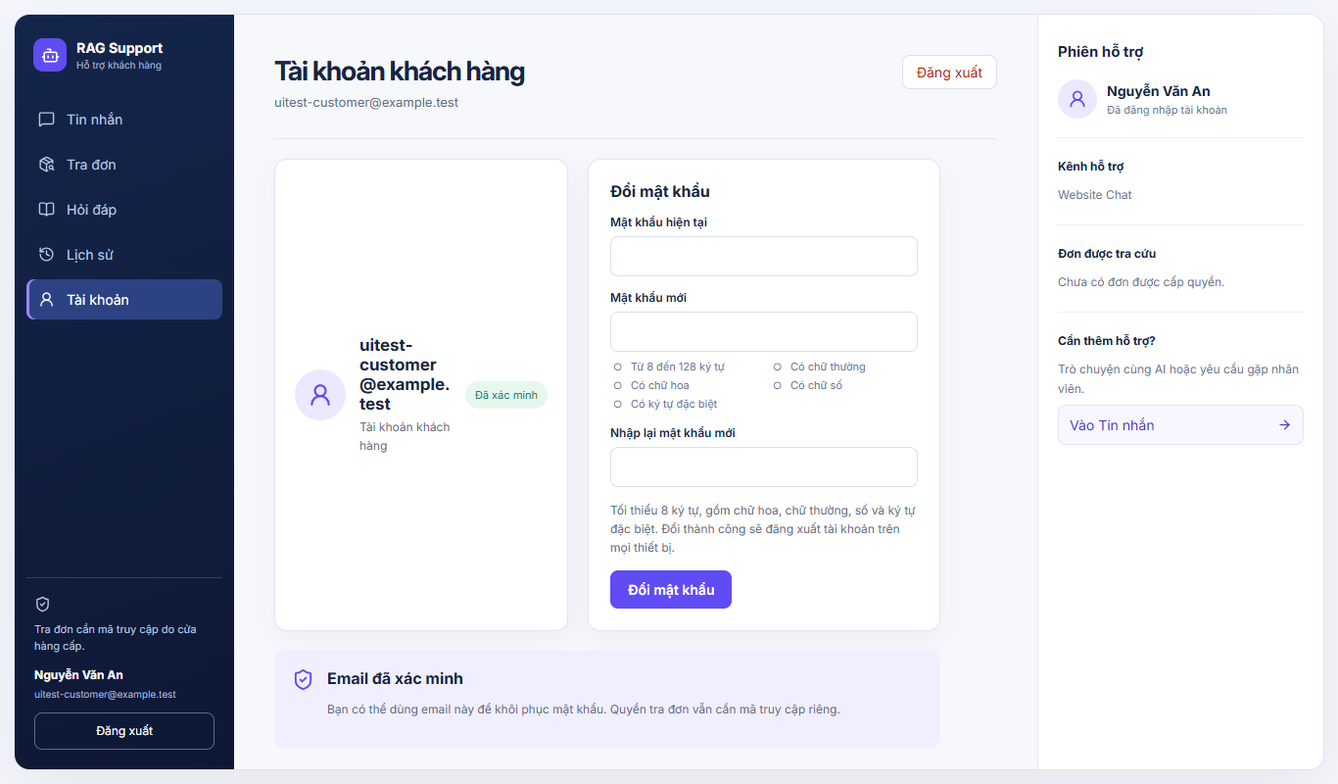
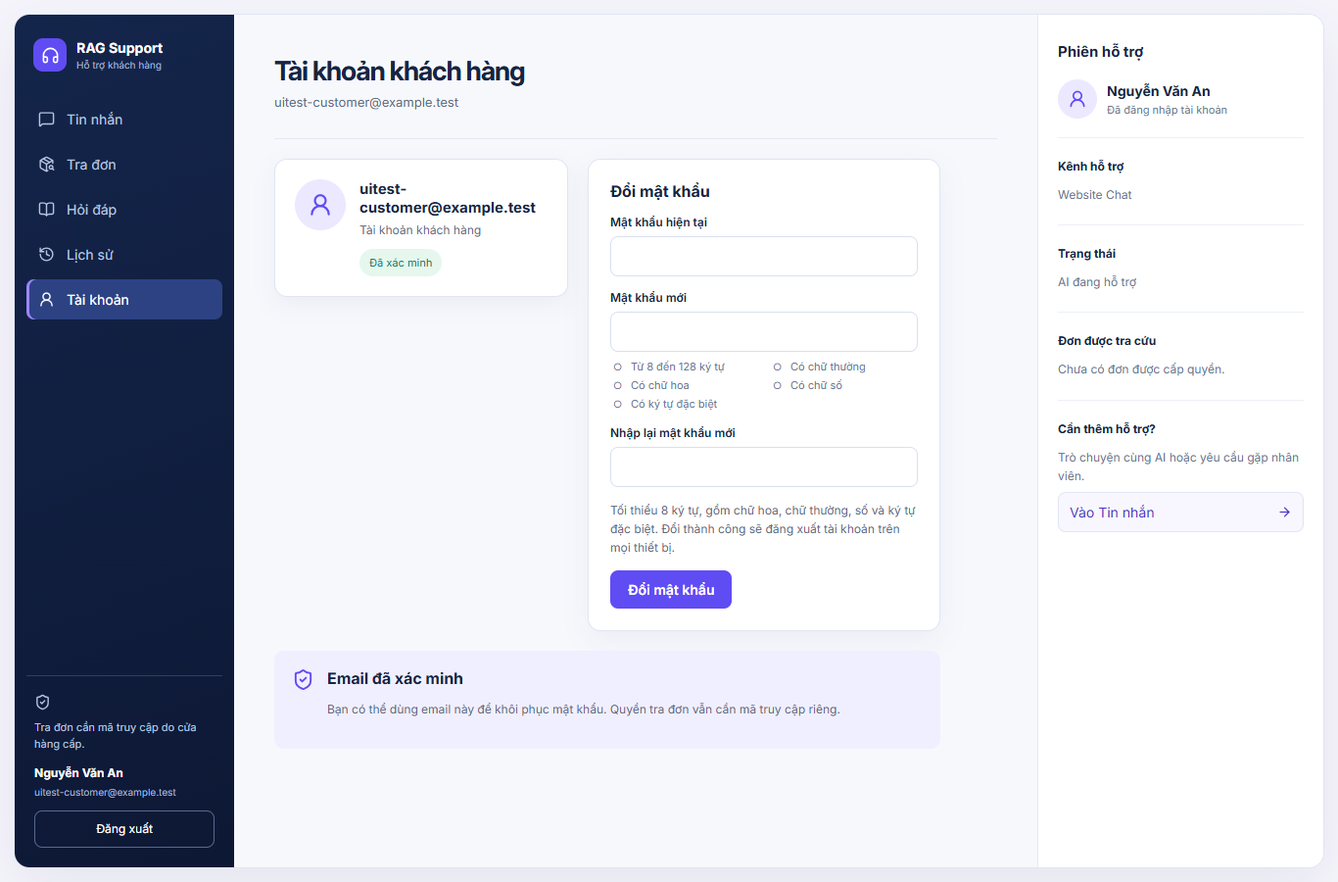
fix(ui): remaining usability items from the audit (K3–K7, K9, K10, K12)
- FAQ search is a real field; Enter carries the question into the chat composer.
- The customer side column shows the live conversation status and drops the
  link to the page already open; the order page explains that order access
  belongs to the current conversation.
- Account page: one logout on desktop, email no longer wraps to four lines.
- Staff: bordered message paging buttons, one search field style for customers
  and orders, a live rule checklist on the staff password form, and the phone
  menu's theme toggle no longer covers menu items.
- Knowledge base lists documents by their leading Markdown heading (new
  `title` field on /documents) with the file name as secondary text; Delete is
  styled as destructive.

diff --git a/frontend/src/Widget.jsx b/frontend/src/Widget.jsx
@@ -255,7 +255,8 @@ export default function Widget() {
     finally { setBusy(false); }
   }
   async function end() {
-    const prompt = session?.account ? 'Bắt đầu cuộc trò chuyện mới? Hội thoại hiện tại sẽ kết thúc; lịch sử vẫn lưu trong tài khoản.' : 'Kết thúc hội thoại? Bạn sẽ không xem lại được lịch sử này trong widget. Nhân viên vẫn giữ lịch sử để hỗ trợ.';
+    const hasOrderAccess = session?.order_access?.some(access => access.expires_at > Date.now() / 1000);
+    const prompt = session?.account ? 'Bắt đầu cuộc trò chuyện mới? Hội thoại hiện tại sẽ kết thúc; lịch sử vẫn lưu trong tài khoản.' + (hasOrderAccess ? ' Quyền tra đơn đã cấp sẽ hết hiệu lực.' : '') : 'Kết thúc hội thoại? Bạn sẽ không xem lại được lịch sử này trong widget. Nhân viên vẫn giữ lịch sử để hỗ trợ.';
     if (!window.confirm(prompt)) return;
     const version = ++sequence.current; setBusy(true); setError('');
     try {
@@ -398,12 +399,12 @@ export default function Widget() {
       {view === 'messages' ? chat : view === 'history' && session?.account ? <CustomerHistory key={session.account.email} request={request} currentId={session.conversation_id} onExpired={() => clearIdentity('Phiên đăng nhập đã hết hạn.')} /> : view === 'account' && session?.account ? <CustomerProfile account={session.account} request={request} onExpired={() => clearIdentity('Phiên đăng nhập đã hết hạn.')} onPasswordChanged={() => { clearIdentity(''); setToast('Đổi mật khẩu thành công. Vui lòng đăng nhập lại bằng mật khẩu mới.'); }} onLogout={logout} logoutDisabled={busy || handoffBusy || historyLoading} /> : view === 'orders' ? <section className="portalPage" aria-label="Tra cứu đơn hàng"><div className="portalPageHead"><span className="portalPageIcon"><PackageSearch size={22} /></span><div><h1>Tra cứu đơn hàng</h1><p>Xem trạng thái và mã vận đơn sau khi xác nhận quyền truy cập.</p></div></div>
         {!session ? <div className="portalEmpty"><p>Bắt đầu phiên trò chuyện để tra cứu đơn.</p><button onClick={() => setView('messages')}>Bắt đầu trò chuyện <ArrowRight size={16} /></button></div> : <><div className="portalOrderGrid"><form className="portalOrderForm" onSubmit={event => { event.preventDefault(); inspectOrder(orderId, new FormData(event.currentTarget).get('code')); }}><h2>Nhập thông tin tra cứu</h2><label>Mã đơn<input value={orderId} onChange={event => { setOrderId(event.target.value); setOrderResult(null); }} placeholder="Ví dụ: DH12345" required minLength={6} maxLength={64} autoComplete="off" /></label>
           {!activeAccess.some(access => access.order_id === orderId.trim().toUpperCase()) && <label>Mã truy cập<input name="code" type="password" required minLength={43} maxLength={43} autoComplete="off" spellCheck={false} placeholder="Mã do cửa hàng cấp" /></label>}
-          <p>Mã truy cập chỉ dùng để xác nhận quyền tra đơn. Không gửi mã trong tin nhắn.</p><button disabled={busy || orderLoading}>{orderLoading ? 'Đang tra cứu...' : 'Tra cứu đơn hàng'}</button></form><div className="portalOrderHelp"><h2>Lấy mã truy cập ở đâu?</h2><ol><li>Liên hệ cửa hàng qua kênh đã xác minh (điện thoại hoặc email đặt hàng).</li><li>Nhân viên kiểm tra chủ đơn rồi cấp mã riêng cho từng đơn.</li><li>Không gửi mã truy cập trong tin nhắn trò chuyện.</li></ol></div></div>
+          <p>Mã truy cập chỉ dùng để xác nhận quyền tra đơn. Không gửi mã trong tin nhắn. Quyền tra đơn gắn với cuộc trò chuyện hiện tại và hết hạn sau 15 phút; khi bấm Chat mới bạn cần mã mới.</p><button disabled={busy || orderLoading}>{orderLoading ? 'Đang tra cứu...' : 'Tra cứu đơn hàng'}</button></form><div className="portalOrderHelp"><h2>Lấy mã truy cập ở đâu?</h2><ol><li>Liên hệ cửa hàng qua kênh đã xác minh (điện thoại hoặc email đặt hàng).</li><li>Nhân viên kiểm tra chủ đơn rồi cấp mã riêng cho từng đơn.</li><li>Không gửi mã truy cập trong tin nhắn trò chuyện.</li></ol></div></div>
           {orderError && <p className="widgetError" role="alert">{orderError}</p>}
           {orderResult && activeAccess.some(access => access.order_id === orderResult.order_id) && <article className="portalOrderResult" role="status"><div><small>ĐƠN HÀNG</small><h2>{orderResult.order_id}</h2></div><span>{orderStatuses[orderResult.status] || orderResult.status}</span><dl><dt>Trạng thái</dt><dd>{orderStatuses[orderResult.status] || orderResult.status}</dd><dt>Mã vận đơn</dt><dd>{orderResult.tracking_code || 'Chưa có mã vận đơn'}</dd></dl></article>}
           {activeAccess.length > 0 && <div className="portalAccess"><h2>Đơn đã cấp quyền</h2>{activeAccess.map(access => <button key={access.order_id} onClick={() => { setOrderId(access.order_id); inspectOrder(access.order_id, ''); }}>{access.order_id}<ArrowRight size={16} /></button>)}</div>}</>}
-      </section> : <section className="portalPage" aria-label="Hỏi đáp chính sách"><div className="portalPageHead"><span className="portalPageIcon"><BookOpen size={22} /></span><div><h1>Hỏi đáp chính sách</h1><p>Đặt câu hỏi cho trợ lý AI. Câu trả lời sẽ kèm trích nguồn khi tìm được tài liệu.</p></div></div><button type="button" className="portalSearchFake" onClick={() => setView('messages')}><SearchIcon aria-hidden="true" /><span>Đặt câu hỏi về chính sách cho trợ lý...</span></button><div className="portalPolicyGrid">{policyGroups.map(([title, description, question]) => <button type="button" key={title} onClick={() => askSuggestion(question)}><strong>{title}</strong><small>{description}</small></button>)}</div><div className="portalQuestions"><h2>Câu hỏi thường gặp</h2>{suggestions.map(question => <button key={question} onClick={() => askSuggestion(question)}>{question}<ArrowRight size={17} /></button>)}</div><div className="portalEmpty"><p>Không tìm thấy chính sách bạn cần?</p><button onClick={() => setView('messages')}>Mở trò chuyện <ArrowRight size={16} /></button></div></section>}
+      </section> : <section className="portalPage" aria-label="Hỏi đáp chính sách"><div className="portalPageHead"><span className="portalPageIcon"><BookOpen size={22} /></span><div><h1>Hỏi đáp chính sách</h1><p>Đặt câu hỏi cho trợ lý AI. Câu trả lời sẽ kèm trích nguồn khi tìm được tài liệu.</p></div></div><form className="portalSearch" role="search" onSubmit={event => { event.preventDefault(); const question = new FormData(event.currentTarget).get('question').trim(); if (question) askSuggestion(question); }}><SearchIcon aria-hidden="true" /><input name="question" aria-label="Câu hỏi về chính sách" maxLength={400} placeholder="Nhập câu hỏi về chính sách rồi nhấn Enter..." /><button type="submit">Hỏi trợ lý</button></form><div className="portalPolicyGrid">{policyGroups.map(([title, description, question]) => <button type="button" key={title} onClick={() => askSuggestion(question)}><strong>{title}</strong><small>{description}</small></button>)}</div><div className="portalQuestions"><h2>Câu hỏi thường gặp</h2>{suggestions.map(question => <button key={question} onClick={() => askSuggestion(question)}>{question}<ArrowRight size={17} /></button>)}</div><div className="portalEmpty"><p>Không tìm thấy chính sách bạn cần?</p><button onClick={() => setView('messages')}>Mở trò chuyện <ArrowRight size={16} /></button></div></section>}
     </div>
-    <div className="portalContext"><h2>Phiên hỗ trợ</h2><div className="portalPerson"><span><UserRound size={20} /></span><div><b>{session?.display_name || 'Khách hàng'}</b><small>{session?.account ? 'Đã đăng nhập tài khoản' : session ? 'Khách vãng lai · ' + statuses[session.status] : 'Chưa bắt đầu phiên'}</small></div></div><div className="portalContextBlock"><h3>Kênh hỗ trợ</h3><p>Website Chat</p></div><div className="portalContextBlock"><h3>Đơn được tra cứu</h3>{activeAccess.length ? activeAccess.map(access => <button key={access.order_id} onClick={() => { setOrderId(access.order_id); setView('orders'); inspectOrder(access.order_id, ''); }}>{access.order_id}<ArrowRight size={15} /></button>) : <p>Chưa có đơn được cấp quyền.</p>}</div><div className="portalContextBlock"><h3>Cần thêm hỗ trợ?</h3><p>Trò chuyện cùng AI hoặc yêu cầu gặp nhân viên.</p><button onClick={() => setView('messages')}>Vào Tin nhắn <ArrowRight size={15} /></button></div></div>
+    <div className="portalContext"><h2>Phiên hỗ trợ</h2><div className="portalPerson"><span><UserRound size={20} /></span><div><b>{session?.display_name || 'Khách hàng'}</b><small>{session?.account ? 'Đã đăng nhập tài khoản' : session ? 'Khách vãng lai · ' + statuses[session.status] : 'Chưa bắt đầu phiên'}</small></div></div><div className="portalContextBlock"><h3>Kênh hỗ trợ</h3><p>Website Chat</p></div>{session && <div className="portalContextBlock"><h3>Trạng thái</h3><p>{statuses[session.status] || session.status}</p></div>}<div className="portalContextBlock"><h3>Đơn được tra cứu</h3>{activeAccess.length ? activeAccess.map(access => <button key={access.order_id} onClick={() => { setOrderId(access.order_id); setView('orders'); inspectOrder(access.order_id, ''); }}>{access.order_id}<ArrowRight size={15} /></button>) : <p>Chưa có đơn được cấp quyền.</p>}</div>{view !== 'messages' && <div className="portalContextBlock"><h3>Cần thêm hỗ trợ?</h3><p>Trò chuyện cùng AI hoặc yêu cầu gặp nhân viên.</p><button onClick={() => setView('messages')}>Vào Tin nhắn <ArrowRight size={15} /></button></div>}</div>
   </div>;
 }

diff --git a/frontend/src/KnowledgeBase.jsx b/frontend/src/KnowledgeBase.jsx
@@ -53,7 +53,7 @@ export default function KnowledgeBase({ user, request, onExpired }) {
   const answerRequest = useRef(null);
   const previewRef = useRef(null);
   const tabs = [['documents', 'Tài liệu'], ...(user.role === 'admin' ? [['upload', 'Tải tài liệu']] : []), ['ask', 'Thử hỏi AI']];
-  const visibleDocuments = documents.filter(document => document.filename.toLocaleLowerCase('vi').includes(search.trim().toLocaleLowerCase('vi')) && (!status || document.status === status));
+  const visibleDocuments = documents.filter(document => `${document.title || ''} ${document.filename}`.toLocaleLowerCase('vi').includes(search.trim().toLocaleLowerCase('vi')) && (!status || document.status === status));
   const pageCount = Math.max(1, Math.ceil(visibleDocuments.length / PAGE_SIZE));
   const currentPage = Math.min(page, pageCount - 1);
   const pageDocuments = visibleDocuments.slice(currentPage * PAGE_SIZE, (currentPage + 1) * PAGE_SIZE);
@@ -143,11 +143,11 @@ export default function KnowledgeBase({ user, request, onExpired }) {
     {error && <p role="alert" className="kbError">{error}</p>}
     <section id="kb-panel-documents" role="tabpanel" aria-labelledby="kb-tab-documents" hidden={section !== 'documents'}>
     <h2 className="documentHeading" id="tai-lieu">Tài liệu <span>{visibleDocuments.length} / {documents.length} tài liệu</span></h2>
-    <div className="documentFilters"><label>Tìm tài liệu<input type="search" value={search} onChange={event => setSearch(event.target.value)} placeholder="Tên tài liệu..." /></label><label>Trạng thái<select value={status} onChange={event => setStatus(event.target.value)}><option value="">Tất cả trạng thái</option>{Object.entries(labels).map(([value, label]) => <option key={value} value={value}>{label}</option>)}</select></label>{(search || status) && <button onClick={() => { setSearch(''); setStatus(''); }}>Xóa bộ lọc</button>}</div>
+    <div className="documentFilters"><label>Tìm tài liệu<input type="search" value={search} onChange={event => setSearch(event.target.value)} placeholder="Tiêu đề hoặc tên file..." /></label><label>Trạng thái<select value={status} onChange={event => setStatus(event.target.value)}><option value="">Tất cả trạng thái</option>{Object.entries(labels).map(([value, label]) => <option key={value} value={value}>{label}</option>)}</select></label>{(search || status) && <button onClick={() => { setSearch(''); setStatus(''); }}>Xóa bộ lọc</button>}</div>
     {loading ? <p role="status">Đang tải tài liệu...</p> : !documents.length ? <p>Chưa có tài liệu. {user.role === 'admin' ? <button onClick={() => setSection('upload')}>Tải tài liệu đầu tiên</button> : 'Quản trị viên tải tài liệu để bắt đầu hỏi đáp.'}</p> : !visibleDocuments.length ? <p role="status">Không có tài liệu phù hợp. Thử đổi tên hoặc bỏ bộ lọc trạng thái.</p> : <><div className="documentList">{pageDocuments.map(document => <article className="documentCard" key={document.document_id}>
-      <div><h2>{document.filename}</h2><p>{labels[document.status] || document.status} · {document.chunks} đoạn</p>{document.error_message && <p className="kbError">{document.error_message}</p>}</div>
+      <div><h2>{document.title || document.filename}</h2><p>{document.title ? `${document.filename} · ` : ''}{labels[document.status] || document.status} · {document.chunks} đoạn</p>{document.error_message && <p className="kbError">{document.error_message}</p>}</div>
       <div className="documentActions"><button onClick={() => show(document)} disabled={Boolean(busy)} aria-expanded={preview?.id === document.document_id}>{preview?.id === document.document_id ? 'Ẩn nội dung' : 'Xem nội dung'}</button>
-      {user.role === 'admin' && <><button disabled={Boolean(busy) || document.status === 'deleting'} onClick={() => mutate(`/documents/${document.document_id}/reindex`, { method: 'POST' }, document.document_id)}>{busy === document.document_id ? 'Đang xử lý...' : 'Lập chỉ mục lại'}</button><button disabled={Boolean(busy)} onClick={() => setRemoveId(document.document_id)}>Xóa</button></>}</div>
+      {user.role === 'admin' && <><button disabled={Boolean(busy) || document.status === 'deleting'} onClick={() => mutate(`/documents/${document.document_id}/reindex`, { method: 'POST' }, document.document_id)}>{busy === document.document_id ? 'Đang xử lý...' : 'Lập chỉ mục lại'}</button><button disabled={Boolean(busy)} onClick={() => setRemoveId(document.document_id)} className="danger">Xóa</button></>}</div>
       {removeId === document.document_id && <div className="deleteConfirm" role="alert"><p>Xóa tài liệu, các đoạn và vector? Lịch sử hội thoại vẫn giữ trích dẫn cũ.</p><button disabled={Boolean(busy)} onClick={() => mutate(`/documents/${document.document_id}`, { method: 'DELETE' }, document.document_id)}>Xác nhận xóa</button><button disabled={Boolean(busy)} onClick={() => setRemoveId(null)}>Hủy</button></div>}
       {preview?.id === document.document_id && <section ref={previewRef} className="sourcePreview inlinePreview" aria-label={`Nội dung ${document.filename}`}>{preview.loading ? <p role="status">Đang tải...</p> : preview.error ? <p role="alert">{preview.error}</p> : preview.chunks.map(chunk => <article key={chunk.chunk_id}><h3>{chunk.location || `Đoạn ${chunk.index + 1}`}</h3><p><RichText text={chunk.content} /></p></article>)}</section>}
     </article>)}</div>

diff --git a/frontend/src/portal.css b/frontend/src/portal.css
@@ -127,8 +127,12 @@
 .portalOrderHelp { align-self: start; margin-top: 20px; padding: 22px; border: 1px solid #e0e5f1; border-radius: 13px; background: #fff; box-shadow: 0 10px 28px rgba(31, 42, 79, .05); }
 .portalOrderHelp h2 { margin: 0 0 14px; font-size: 16px; }
 .portalOrderHelp ol { margin: 0; padding-left: 20px; color: #5c6984; font-size: 12px; line-height: 1.8; }
-.portalSearchFake { display: flex; align-items: center; gap: 9px; width: 100%; max-width: 900px; cursor: pointer; text-align: left; font: inherit; margin-top: 20px; padding: 12px 14px; border: 1px solid #d8e0f0; border-radius: 9px; background: #fff; color: #6a758a; font-size: 13px; }
-.portalSearchFake:hover { border-color: #bcb0ff; }
+.portalSearch { display: flex; align-items: center; gap: 9px; width: 100%; max-width: 900px; box-sizing: border-box; margin-top: 20px; padding: 5px 5px 5px 14px; border: 1px solid #d8e0f0; border-radius: 9px; background: #fff; color: #6a758a; }
+.portalSearch input { flex: 1; min-width: 0; border: 0; outline: 0; background: transparent; font: inherit; font-size: 14px; color: #263655; padding: 8px 0; }
+.portalSearch input::placeholder { color: #6a758a; }
+.portalSearch button { flex: none; border: 0; border-radius: 7px; padding: 9px 14px; background: #604cf3; color: #fff; font: inherit; font-size: 13px; font-weight: 600; cursor: pointer; }
+.portalSearch:focus-within { border-color: #8f80f4; box-shadow: 0 0 0 3px #6753ee1a; }
+.portalSearch:hover { border-color: #bcb0ff; }
 .portalPolicyGrid { display: grid; grid-template-columns: repeat(3, minmax(0, 1fr)); gap: 10px; max-width: 900px; margin-top: 12px; }
 .portalPolicyGrid button { min-height: 78px; padding: 14px; border: 1px solid #e0e5f1; border-radius: 12px; background: #fff; color: #263655; text-align: left; box-shadow: 0 6px 18px rgba(31, 42, 79, .04); }
 .portalPolicyGrid button:hover { border-color: #bcb0ff; background: #f8f7ff; }
@@ -157,9 +161,9 @@
 [data-theme=dark] .historyFilters label { color:#d4deed; }
 [data-theme=dark] .historyFilters :is(input,select) { background:#202c3d; border-color:#475569; color:#e2e8f0; }
 /* Dark theme for portal surfaces that were left white: order help, FAQ search and cards, history, profile. */
-[data-theme=dark] :is(.portalOrderHelp,.portalSearchFake,.portalPolicyGrid button,.accountHistoryDetail,.accountHistoryList button,.profileCard) { background:#202c3d; color:#e2e8f0; border-color:#475569; box-shadow:none; }
+[data-theme=dark] :is(.portalOrderHelp,.portalSearch,.portalPolicyGrid button,.accountHistoryDetail,.accountHistoryList button,.profileCard) { background:#202c3d; color:#e2e8f0; border-color:#475569; box-shadow:none; }
 [data-theme=dark] :is(.portalOrderHelp h2,.accountHistoryDetail h2,.profileCard h2,.profilePassword h2,.portalPolicyGrid strong,.accountHistoryList b) { color:#f1f5f9; }
-[data-theme=dark] :is(.portalOrderHelp li,.portalSearchFake span,.portalPolicyGrid small,.accountHistoryList span,.accountHistoryList small,.accountHistoryDetail>p,.profileCard p) { color:#b7c9e2; }
+[data-theme=dark] :is(.portalOrderHelp li,.portalSearch input::placeholder,.portalPolicyGrid small,.accountHistoryList span,.accountHistoryList small,.accountHistoryDetail>p,.profileCard p) { color:#b7c9e2; }
 [data-theme=dark] :is(.portalPolicyGrid button:hover,.accountHistoryList button:hover) { background:#27354a; border-color:#8f80f4; }
 [data-theme=dark] .accountHistoryList button[aria-pressed=true] { background:#302b4a; border-color:#8f80f4; }
 [data-theme=dark] .accountPager button { background:#202c3d; color:#d4caff; border-color:#475569; }
@@ -169,3 +173,11 @@
 [data-theme=dark] .profileStatus.verified { background:#164c3c; color:#8df0c1; }
 [data-theme=dark] .profileLogout { background:#202c3d; color:#ffb4a8; border-color:#6b4a4a; }
 [data-theme=dark] .profileLogout:hover { background:#3a2529; border-color:#a8605a; }
+[data-theme=dark] .portalSearch input { color:#e2e8f0; }
+/* K6: on desktop the sidebar already has Đăng xuất; the page button is for phones, where the sidebar is hidden. */
+@media(min-width:701px) { .customerProfile .profileLogout { display:none; } }
+/* K6: the email gets the full row; the verification badge sits under it instead of squeezing it into four lines. */
+.profileCard { flex-wrap:wrap; align-items:flex-start; align-content:flex-start; align-self:start; row-gap:10px; }
+.profileCard > div:nth-child(2) { flex:1 1 calc(100% - 70px); min-width:0; }
+.profileCard h2 { font-size:15px; }
+.profileCard .profileStatus { margin-left:66px; }

diff --git a/frontend/src/Workspace.jsx b/frontend/src/Workspace.jsx
@@ -1,6 +1,7 @@
 import React, { useEffect, useRef, useState } from 'react';
 import { ArrowUpRight, Search, Plus, RefreshCw, X, MessagesSquare, UsersRound, ShoppingBag, BookOpen, TicketCheck, MessageCircle } from 'lucide-react';
 import './workspace.css';
+import PasswordRules from './PasswordRules';
 import { channelNames, conversationStatuses, formatDate, formatDateTime, formatDay, formatMinutes, shortId } from './shared';
 
 const orderLabels = { processing: 'Đang xử lý', paid: 'Đã thanh toán', shipping: 'Đang giao', shipped: 'Đã gửi hàng', delivered: 'Đã giao', cancelled: 'Đã hủy' };
@@ -165,6 +166,9 @@ function Records({ kind, request, onExpired, user, openInbox, openOrders, route,
 
 function PasswordForm({ request, onExpired }) {
   const [busy, setBusy] = useState(false), [error, setError] = useState('');
+  const [current, setCurrent] = useState(''), [next, setNext] = useState('');
+  // Same checks as POST /workspace/password.
+  const rules = [['Từ 12 đến 128 ký tự', value => value.length >= 12 && value.length <= 128], ['Khác mật khẩu hiện tại', value => value.length > 0 && value !== current]];
   async function submit(event) {
     event.preventDefault();
     const { current_password, new_password, confirm } = fieldsOf(event);
@@ -174,7 +178,7 @@ function PasswordForm({ request, onExpired }) {
     catch (e) { setError(e.message); if (e.status === 401) onExpired(); }
     finally { setBusy(false); }
   }
-  return <form className="recordForm" onSubmit={submit}><fieldset disabled={busy}><label>Mật khẩu hiện tại<input type="password" name="current_password" autoComplete="current-password" required maxLength={128} /></label><label>Mật khẩu mới<input type="password" name="new_password" autoComplete="new-password" required minLength={12} maxLength={128} /></label><label>Nhập lại mật khẩu mới<input type="password" name="confirm" autoComplete="new-password" required minLength={12} maxLength={128} /></label><small>12–128 ký tự. Đổi thành công sẽ đăng xuất mọi phiên của tài khoản này.</small>{error && <p className="workspaceError" role="alert">{error}</p>}<button className="primary">{busy ? 'Đang đổi...' : 'Đổi mật khẩu'}</button></fieldset></form>;
+  return <form className="recordForm" onSubmit={submit}><fieldset disabled={busy}><label>Mật khẩu hiện tại<input type="password" name="current_password" autoComplete="current-password" required maxLength={128} onChange={event => setCurrent(event.target.value)} /></label><label>Mật khẩu mới<input type="password" name="new_password" autoComplete="new-password" required minLength={12} maxLength={128} onChange={event => setNext(event.target.value)} /></label><PasswordRules value={next} rules={rules} /><label>Nhập lại mật khẩu mới<input type="password" name="confirm" autoComplete="new-password" required minLength={12} maxLength={128} /></label><small>Đổi thành công sẽ đăng xuất mọi phiên của tài khoản này.</small>{error && <p className="workspaceError" role="alert">{error}</p>}<button className="primary">{busy ? 'Đang đổi...' : 'Đổi mật khẩu'}</button></fieldset></form>;
 }
 
 function StaffAccounts({ request, onExpired }) {

diff --git a/frontend/src/admin-theme.css b/frontend/src/admin-theme.css
@@ -403,3 +403,20 @@ body:has(.shell[data-theme=dark]){background:#111827}
 .shell[data-theme=dark] :is(.filters label,.slaFilter,.mobileNav button){color:#a3b1c6}
 /* Audit group 3 (mobile): fade the right edge of the scrolling staff menu so cut-off items read as "more this way". */
 @media(max-width:760px){.shell .mobileNav{padding-right:36px;-webkit-mask-image:linear-gradient(90deg,#000 calc(100% - 36px),transparent);mask-image:linear-gradient(90deg,#000 calc(100% - 36px),transparent)}}
+/* K7: message paging looks like the other buttons instead of 10px gray text. */
+.shell .messagePagination span{font-size:11px}
+.shell .messagePagination button{padding:5px 10px;border:1px solid var(--line);border-radius:6px;background:#fff;color:#475569;font-size:11px;cursor:pointer}
+.shell .messagePagination button:disabled{opacity:.45;cursor:default}
+.shell[data-theme=dark] .messagePagination button{background:#202c3d;color:#cecaed;border-color:#3c4a60}
+/* K9: customer/order search is one bordered field like the inbox and knowledge base searches. */
+.shell .recordFilters .search{align-items:center;gap:8px;width:min(100%,420px);padding:0 12px;border:1px solid var(--line);border-radius:8px;background:#fff;color:#606f85}
+.shell .recordFilters .search input{flex:1;min-width:0;min-height:40px;padding:0;border:0;background:transparent;font-size:13px}
+.shell .recordFilters .search:focus-within{border-color:#8f80f4;box-shadow:0 0 0 3px #604cf31a}
+.shell[data-theme=dark] .recordFilters .search{background:#111b2b;border-color:#3c4a60}
+/* K12: destructive action. */
+.knowledge .documentActions button.danger{color:#b42318;border-color:#f1b0a9}
+.knowledge .documentActions button.danger:hover:not(:disabled){background:#fff5f4}
+.shell[data-theme=dark] .knowledge .documentActions button.danger{color:#ffb4a8;border-color:#865453}
+
+/* The theme toggle scrolls with the phone menu instead of sticking over the items next to it. */
+.shell .mobileNav .themeToggle{position:static}

diff --git a/frontend/src/PasswordRules.jsx b/frontend/src/PasswordRules.jsx
@@ -1,7 +1,7 @@
 import React from 'react';
 
 // Same rules as the backend (app/api/customer_auth.py new_password_text) and the form pattern.
-const RULES = [
+export const CUSTOMER_RULES = [
   ['Từ 8 đến 128 ký tự', value => value.length >= 8 && value.length <= 128],
   ['Có chữ thường', value => /[a-z]/.test(value)],
   ['Có chữ hoa', value => /[A-Z]/.test(value)],
@@ -9,8 +9,8 @@ const RULES = [
   ['Có ký tự đặc biệt', value => /[^A-Za-z0-9\s]/.test(value)],
 ];
 
-export default function PasswordRules({ value = '' }) {
-  return <ul className="passwordRules" aria-label="Điều kiện mật khẩu">{RULES.map(([label, test]) => {
+export default function PasswordRules({ value = '', rules = CUSTOMER_RULES }) {
+  return <ul className="passwordRules" aria-label="Điều kiện mật khẩu">{rules.map(([label, test]) => {
     const met = test(value);
     return <li key={label} className={met ? 'met' : ''}><span aria-hidden="true">{met ? '✓' : '○'}</span>{label}<span className="srOnly">{met ? ' – đã đạt' : ' – chưa đạt'}</span></li>;
   })}</ul>;

diff --git a/app/tests/test_rag.py b/app/tests/test_rag.py
@@ -98,6 +98,12 @@ class RagTests(unittest.TestCase):
         self.assertEqual(self.client.get(f'/api/v1/documents/{document_id}/chunks').status_code, 404)
         self.assertEqual(self.store._client().count(self.store.collection()).count, 0)
 
+    def test_document_list_uses_leading_markdown_heading_as_title(self):
+        self.upload('# Chính sách giao hàng (bản thử)\nGiao trong 2 ngày.'.encode(), 'giao-hang.md')
+        self.upload(b'Returns accepted within 7 days.', 'policy.txt')
+        titles = {d['filename']: d['title'] for d in self.client.get('/api/v1/documents').json()['documents']}
+        self.assertEqual(titles, {'giao-hang.md': 'Chính sách giao hàng (bản thử)', 'policy.txt': None})
+
     def test_failed_embedding_can_retry_and_non_admin_cannot_mutate(self):
         with patch('app.services.document_service.embed', side_effect=ProviderError('Ollama offline')):
             result = self.client.post('/api/v1/documents/upload', files={'file': ('policy.txt', b'Policy text for recovery.')})

diff --git a/app/services/document_service.py b/app/services/document_service.py
@@ -67,8 +67,15 @@ def extract_sections(path):
             yield paragraph, None, f"Dòng {number}"
 
 
+def document_title(db, record):
+    """A document that opens with a Markdown heading is listed by that heading instead of its file name."""
+    first = db.query(DocumentChunk.content).filter_by(document_id=record.id).order_by(DocumentChunk.chunk_index).first()
+    text = first[0].strip() if first else ""
+    return text.lstrip("#").strip()[:160] or None if text.startswith("#") else None
+
+
 def document_info(db, record):
-    return {"document_id": record.id, "filename": record.filename, "status": record.status,
+    return {"document_id": record.id, "filename": record.filename, "title": document_title(db, record), "status": record.status,
             "error_message": record.error_message, "embedding_model": record.embedding_model,
             "created_at": record.created_at,
             "chunks": db.query(DocumentChunk).filter_by(document_id=record.id).count()}

diff --git a/docs/UI_AUDIT_20261117.md b/docs/UI_AUDIT_20261117.md
@@ -200,7 +200,23 @@ Kiểm tra: chạy lại 80 màn hình với màu mới vẫn 0 lỗi tương ph
 ![Hộp thư nhân viên sau khi đổi màu](images/ui-audit-v1.1/s05-conversation-light-1366-after.png)
 ![Đăng nhập với logo chung](images/ui-audit-v1.1/c01-login-light-1366-after.png)
 
-Chưa sửa: các mục khó dùng còn lại (K3–K7, K9, K10, K12).
+## Đã sửa: các mục khó dùng còn lại (17/11/2026)
+
+| Mục | Thay đổi |
+|---|---|
+| K3 | Ô tìm ở Hỏi đáp là ô nhập thật: gõ câu hỏi rồi Enter (hoặc bấm "Hỏi trợ lý") thì câu hỏi được điền sẵn vào ô chat, giống các câu gợi ý |
+| K4 | Cột "Phiên hỗ trợ" hiện trạng thái thật của hội thoại; ẩn nút "Vào Tin nhắn" khi đang ở trang Tin nhắn |
+| K5 | Trang Tra đơn ghi rõ quyền tra đơn gắn với cuộc trò chuyện hiện tại, hết hạn sau 15 phút; hộp xác nhận "Chat mới" báo quyền đã cấp sẽ hết hiệu lực. Không đổi cách cấp quyền ở backend |
+| K6 | Trang Tài khoản trên desktop chỉ còn nút Đăng xuất ở thanh bên (mobile giữ nút trên trang vì không có thanh bên). Email không còn bị ngắt thành 4 dòng; nhãn xác minh nằm dưới email |
+| K7 | "Tin cũ hơn / Tin mới hơn" phía nhân viên là nút có viền, cao 26 px, chữ 11 px |
+| K9 | Ô tìm ở Khách hàng và Đơn hàng là một ô có viền duy nhất, cùng kiểu với Hộp thư và Kho tri thức |
+| K10 | Form đổi mật khẩu nhân viên có danh sách điều kiện tự tick (12–128 ký tự, khác mật khẩu hiện tại), đúng với kiểm tra ở backend |
+| K12 | Kho tri thức hiện tiêu đề lấy từ dòng `#` đầu tài liệu (API `/documents` thêm trường `title`), tên file thành dòng phụ; tìm được theo cả tiêu đề lẫn tên file. Nút Xóa màu đỏ |
+| Menu mobile nhân viên | Nút đổi giao diện không còn dính mép trái che mục menu khi cuộn |
+
+Kiểm tra: kiểm tra giao diện riêng cho các mục này đạt 18/18; 249 test backend đạt (thêm test trường `title`); chạy lại 80 màn hình không có lỗi mới.
+
+Toàn bộ mục trong báo cáo này đã được xử lý.
 
 ## Ghi chú ngoài giao diện
 
